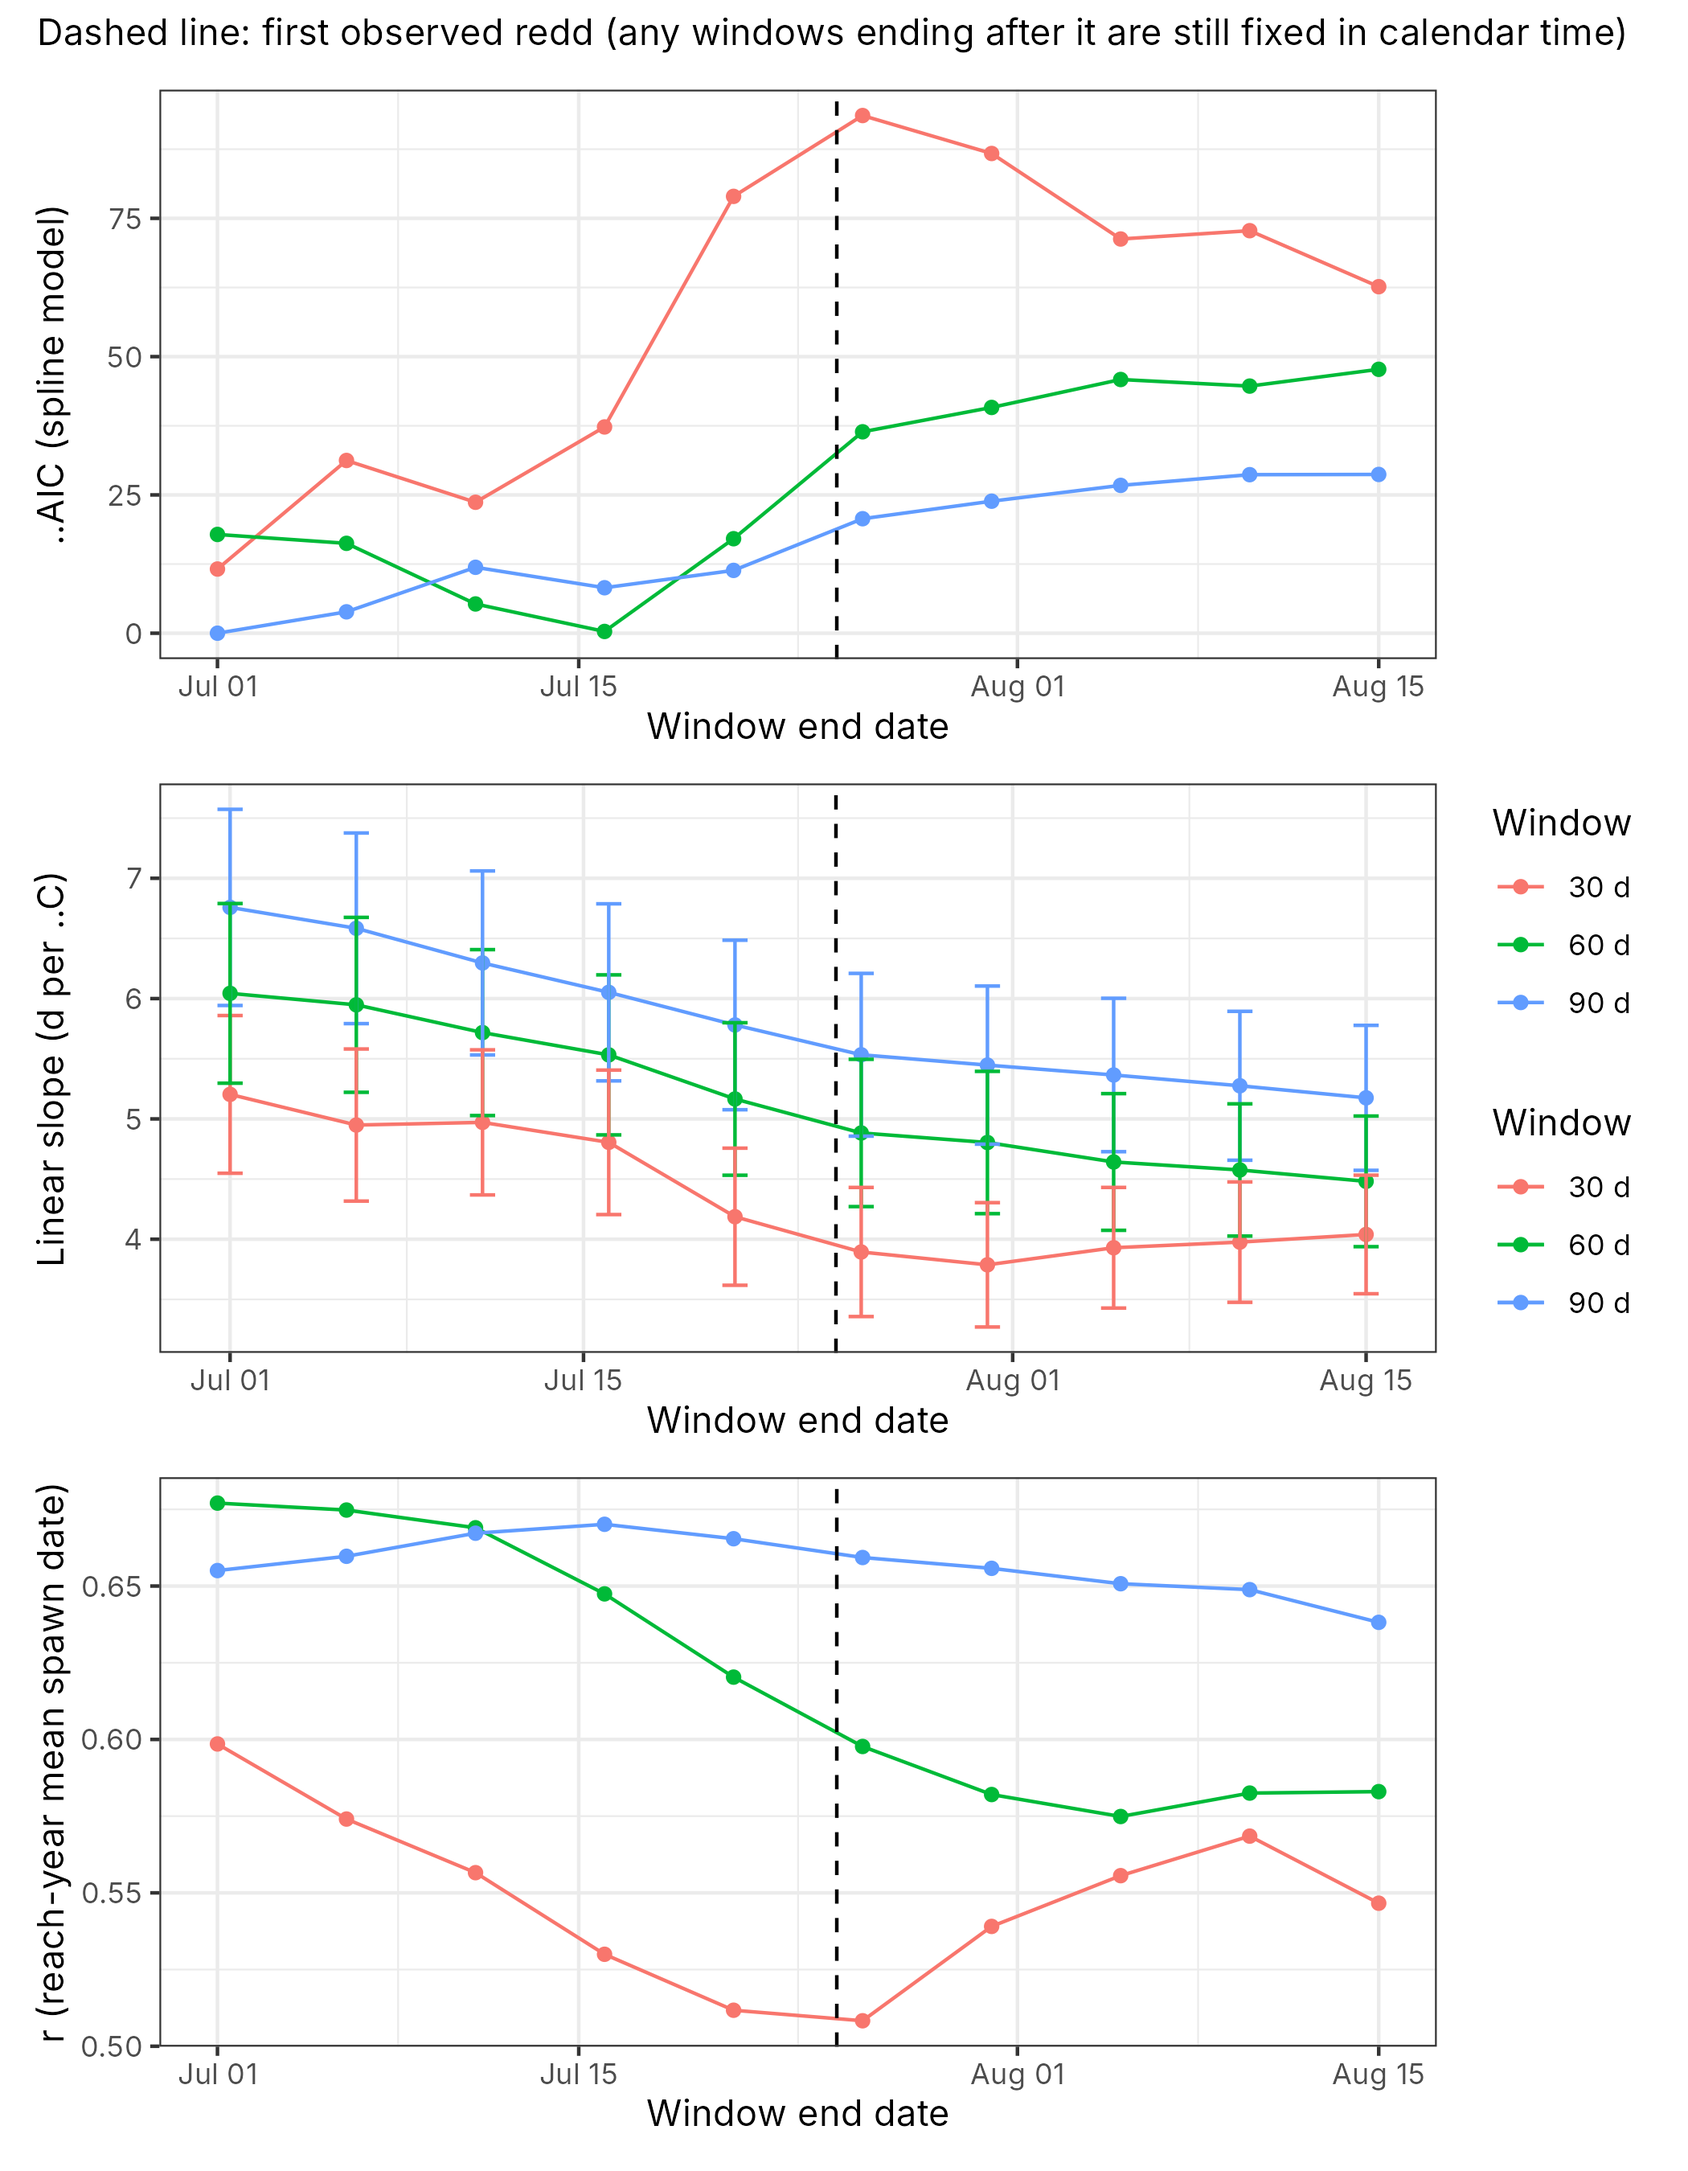
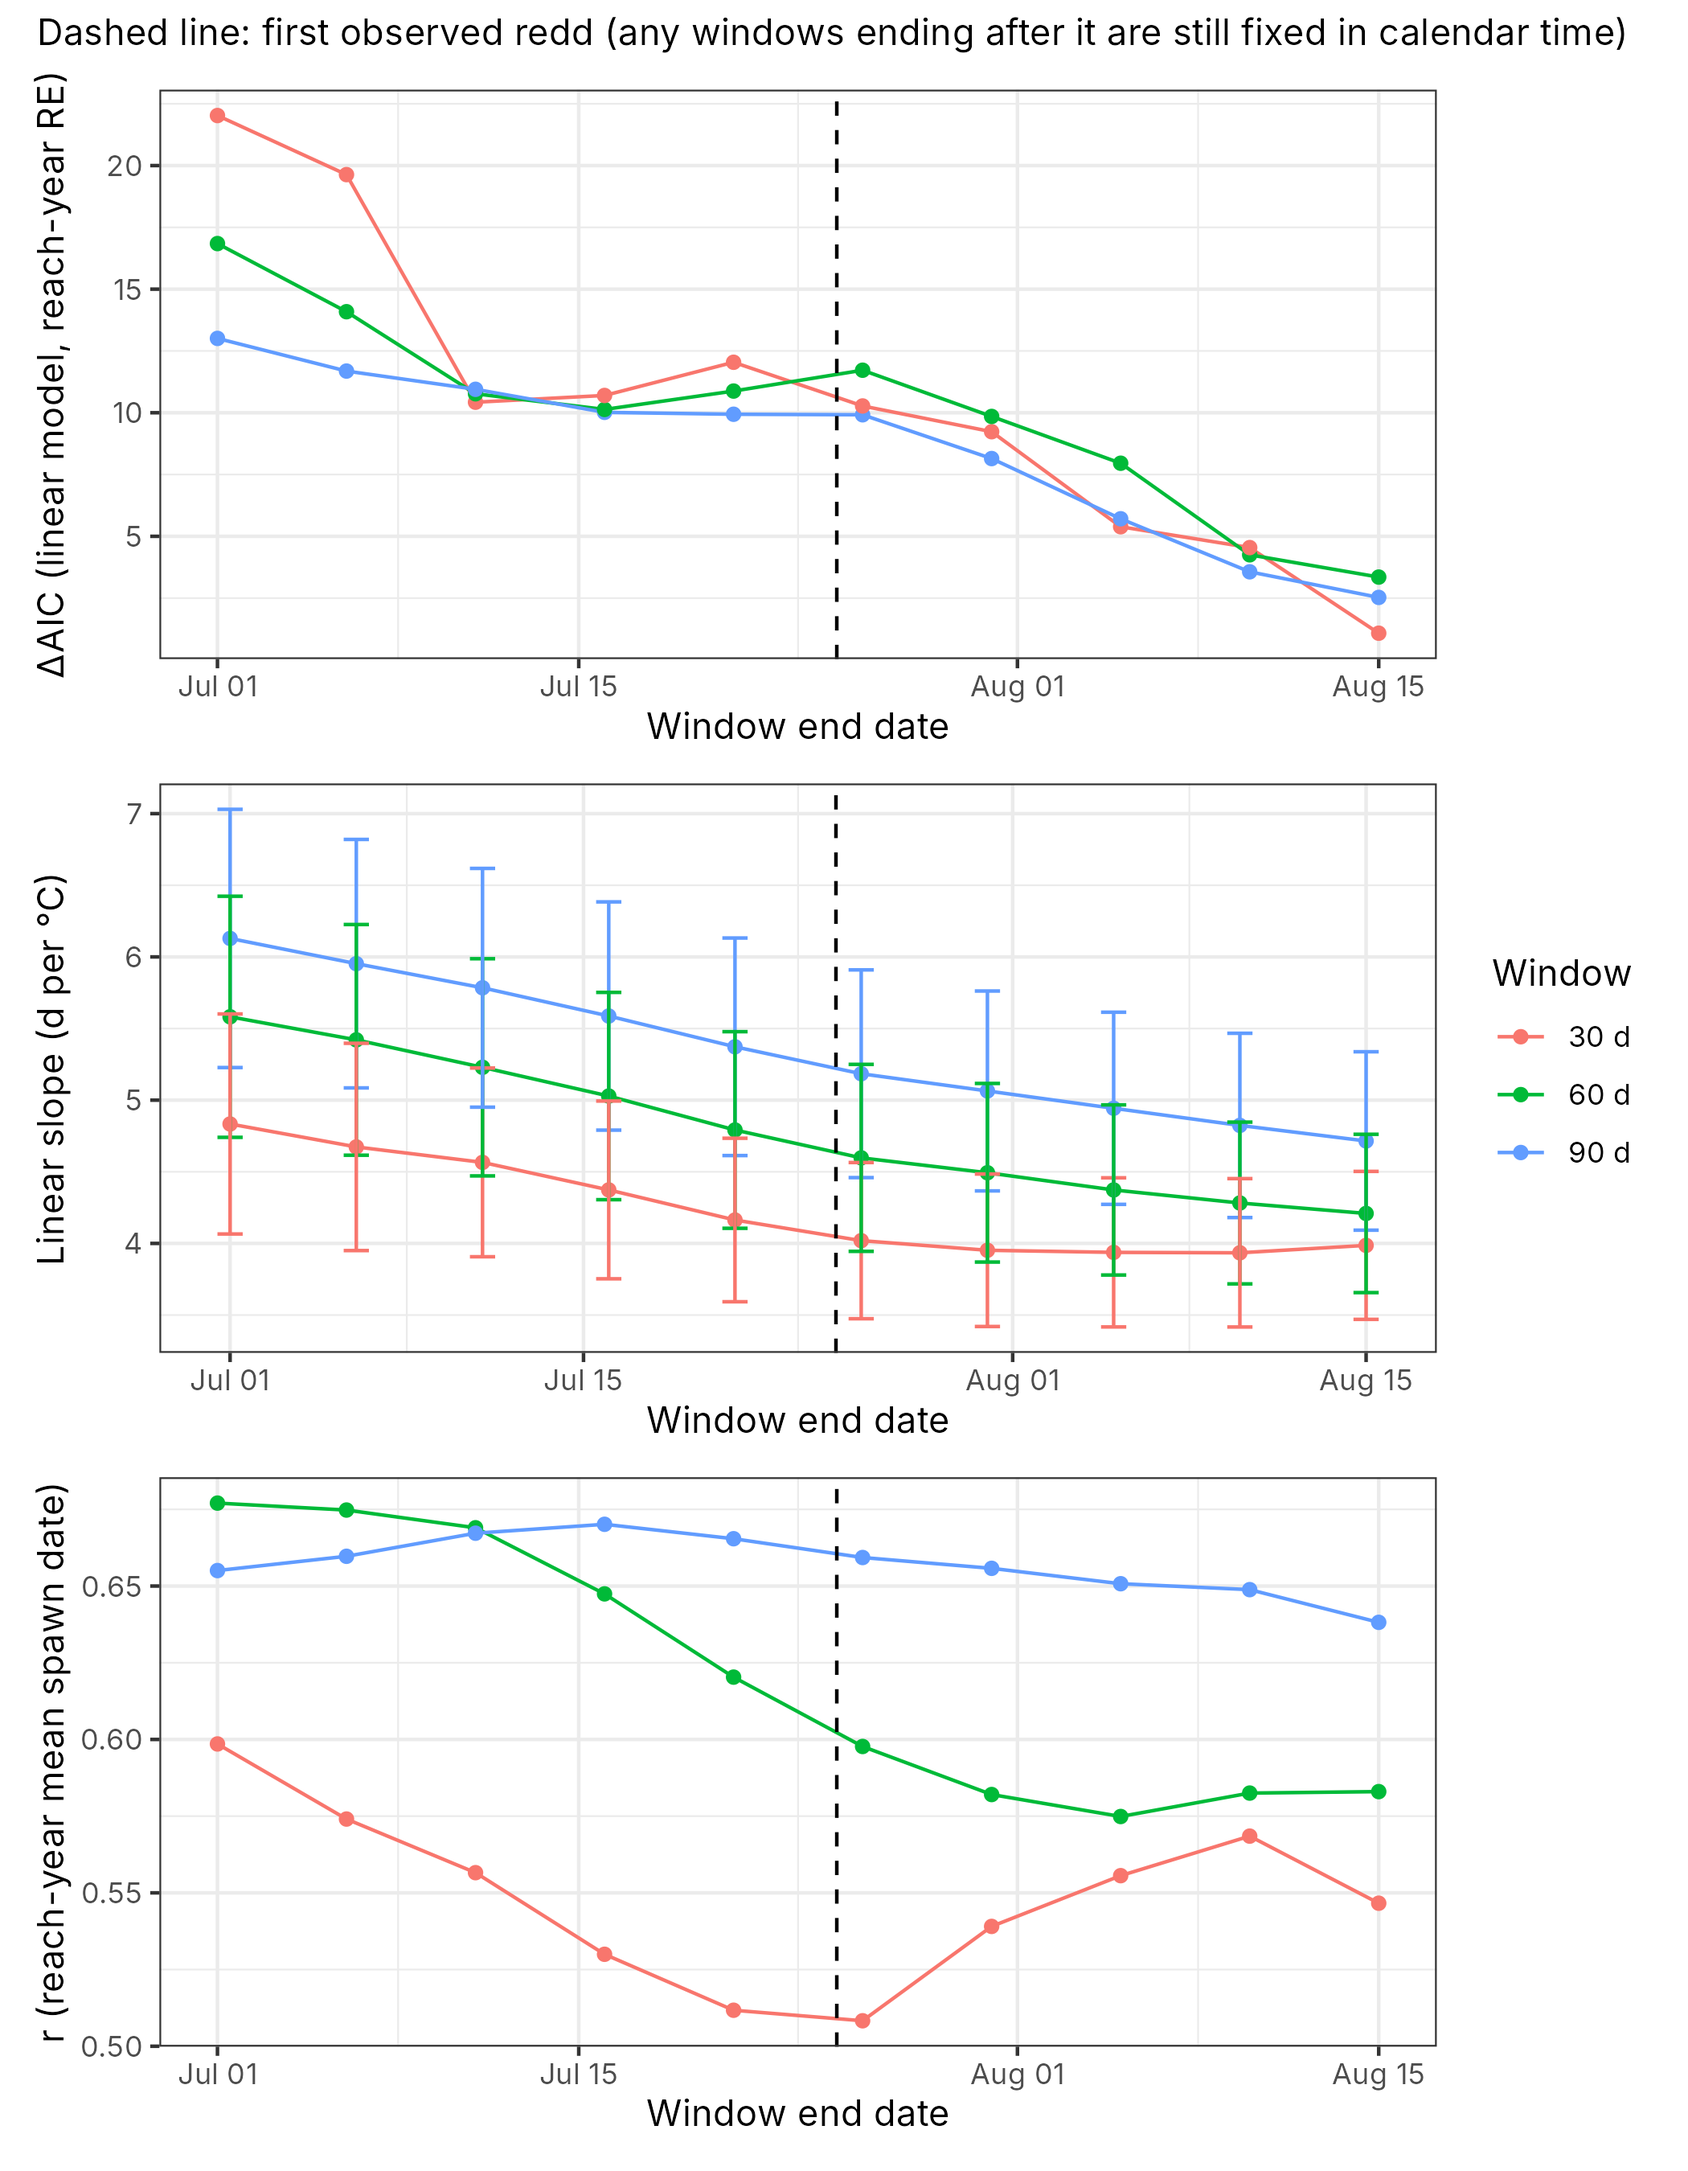
Use reach-year random effect in fixed-date index comparison (08)
Fit all E1 candidates with (1|COMID) + (1|COMID:year) to match 09;
rank by the linear model and keep AIC without the reach-year term for
comparison. The window can't be chosen from the data, so we need to pick a pre-spawn window on biological grounds.

diff --git a/docs/revision/CJFAS_review_analysis.md b/docs/revision/CJFAS_review_analysis.md
@@ -1,6 +1,6 @@
 # CJFAS Phenology Revision — Review Analysis & Task List
 
-Bryan M. Maitland · 30 Oct 2026
+Bryan M. Maitland · 30 Oct 2026 (updated 2 Nov 2026)
 
 > Snapshot of the shared doc "CJFAS Phenology Revision — Review Analysis & Task List" (Claude Docs), which is the live version. Codes in square brackets (D1–F4) refer to outputs from `R/07`–`R/09`; see [Revision outputs map](#revision-outputs-map).
 
@@ -109,8 +109,8 @@ The corrected model gives spawning about 5.0 days later per °C of reach-year th
 | Shuffled-date null (200 runs), within-reach slope | 13.5 d/°C null vs 12.6 observed | D3 |
 | Shuffled-date null, mixed-model residual SD | 2.4 d null vs 2.0 observed | D3 |
 | Per-reach slope vs artefact-only slope (37 COMIDs) | r = 0.75, medians 13.1 vs 13.1 | D4 |
-| Fixed-date indices tested | 32; slope 4–7 d/°C and marginal R² 0.54–0.57 for all | E1 |
-| Best-fitting indices | pre-spawn windows ending 1–16 Jul, within ~10 AIC | E1 |
+| Fixed-date indices tested | 32; slope 3.8–6.1 d/°C and marginal R² 0.52–0.55 for all (with reach-year RE) | E1 |
+| Best-fitting indices | none stands out: all 32 within 22 AIC once the reach-year RE is included (93 without it). August-ending windows rank slightly higher; pre-spawn windows are 10–22 AIC back | E1 |
 | Reach-year random intercept (1\|COMID:year) | ΔAIC ≈ −425; required, since the index is a reach-year value | F1 |
 | Random slopes (with reach-year RE) | singular (ρ = −1): drop | F1 |
 | Spline vs linear | no gain (ΔAIC < 1): use linear; the warm-site plateau does not hold | F1 |
@@ -120,7 +120,7 @@ The corrected model gives spawning about 5.0 days later per °C of reach-year th
 | Year means | 28 Aug (2002) to 2 Sep (2005) | F3 |
 | COMID length | median 0.95 km (0.07–3.21) | F4 |
 
-Open decision: the index. The script default is the 60-d mean ending 16 Jul (18 May–16 Jul); 90-d ending 1 Jul fits equally well. Both precede spawning and most adult arrival, so describe the index as a reach thermal-regime signature rather than an exposure cue.
+Open decision: the index. The data cannot choose the window (E1), so pick it on biological grounds. A window ending before the first redd (25 Jul) is the easiest to defend, because no temperature after any fish spawned enters it. The script default is the 60-d mean ending 16 Jul (18 May–16 Jul; slope 5.0 d/°C). Describe the index as a reach thermal-regime signature rather than an exposure cue.
 
 ## Revision outputs map
 
@@ -132,7 +132,7 @@ Each code used in this doc points to the files below in the CJFAS-revisions bran
 | D2 | R/07 | tables/revision/D2_within_reach_window_change.csv | Change in 30/60/90-d antecedent temperature per day of later spawning, same reach-year; share of variance within reach-year | R1 main; R2 general 3 (why the 90-d window won) |
 | D3 | R/07 | tables/revision/D3_shuffled_date_null.csv, D3_shuffled_date_null_runs.csv; plots/revision/D3_shuffled_date_null.png | 200 shuffled-date nulls vs observed: R², within-reach slope, mixed-model residual SD | R1 main; AE request for an analysis |
 | D4 | R/07 | tables/revision/D4_comid_slope_vs_artefact.csv; plots/revision/D4_comid_slope_vs_artefact.png | Per-COMID observed slope vs artefact-only slope (1 / window warming rate) | R1 Ln 245; current Fig. 6 |
-| E1 | R/08 | tables/revision/E1_fixed_date_candidates.csv; plots/revision/E1_fixed_date_candidates.png | 32 date-independent indices: ΔAIC, slope, marginal R², reach-year r | AE; R1 Ln 194; R2 general 3 |
+| E1 | R/08 | tables/revision/E1_fixed_date_candidates.csv; plots/revision/E1_fixed_date_candidates.png | 32 date-independent indices fit with COMID and reach-year random intercepts: ΔAIC, slope, marginal R², reach-year r; AIC without the reach-year term kept for comparison | AE; R1 Ln 194; R2 general 3 |
 | F1 | R/09 | tables/revision/F1_model_comparison_fixed_index.csv | Model comparison: reach-year RE, random slopes, spline, quadratic, within–between; submitted model as reference | New Table 1; R1 plasticity vs divergence |
 | F2 | R/09 | tables/revision/F2_final_model_fixed_index.csv | Final model coefficients, variance components, R², ICC, RMSE | New Table 2; R2 Table 2 (ICC) |
 | F3 | R/09 | tables/revision/F3_emmeans_fixed_index.csv, F3_contrasts_fixed_index.csv | Stream and year marginal means with Tukey contrasts | New Fig. 5A–B; Abstract date range; R2 Ln 26 |
@@ -148,7 +148,7 @@ Each code used in this doc points to the files below in the CJFAS-revisions bran
 **Re-analysis (Bryan, Morgan)**
 
 - [x] Reproduce the diagnostics in R: within-reach temp_90 vs date, the shuffled-date null, and the 30/60/90-d window comparison. Done: R/07_window-artefact-diagnostics.R.
-- [ ] Choose a fixed-date thermal index. Sensitivity done (E1); script default is the 60-d mean ending 16 Jul, tied with the 90-d mean ending 1 Jul. Bryan to decide.
+- [ ] Choose a fixed-date thermal index. Sensitivity done (E1): the data cannot distinguish windows (all within 22 AIC; slopes 3.8–6.1 d/°C). Choose on biology; script default is the pre-spawn 60-d mean ending 16 Jul. Bryan to decide.
 - [x] Refit with the fixed-date index. Draft done in R/09 (F1–F3): linear T + stream + year with COMID and reach-year random intercepts; within–between split included. Rerun once the index is chosen.
 - [x] Reconcile n = 3,013 vs 3,016 redds and 103 vs 104 COMIDs. Resolved: the analysis/_shared.R pipeline gives 3,016 and 104, matching the manuscript; model_data_final.rds is a stale 3,013-row copy.
 - [x] Plot COMID random intercepts against network position (Hydroseq/distance upstream) within stream for Tim. Consider an SSN tail-up check. Done with drainage area (R/09, F4): no consistent pattern except Big Cr.
